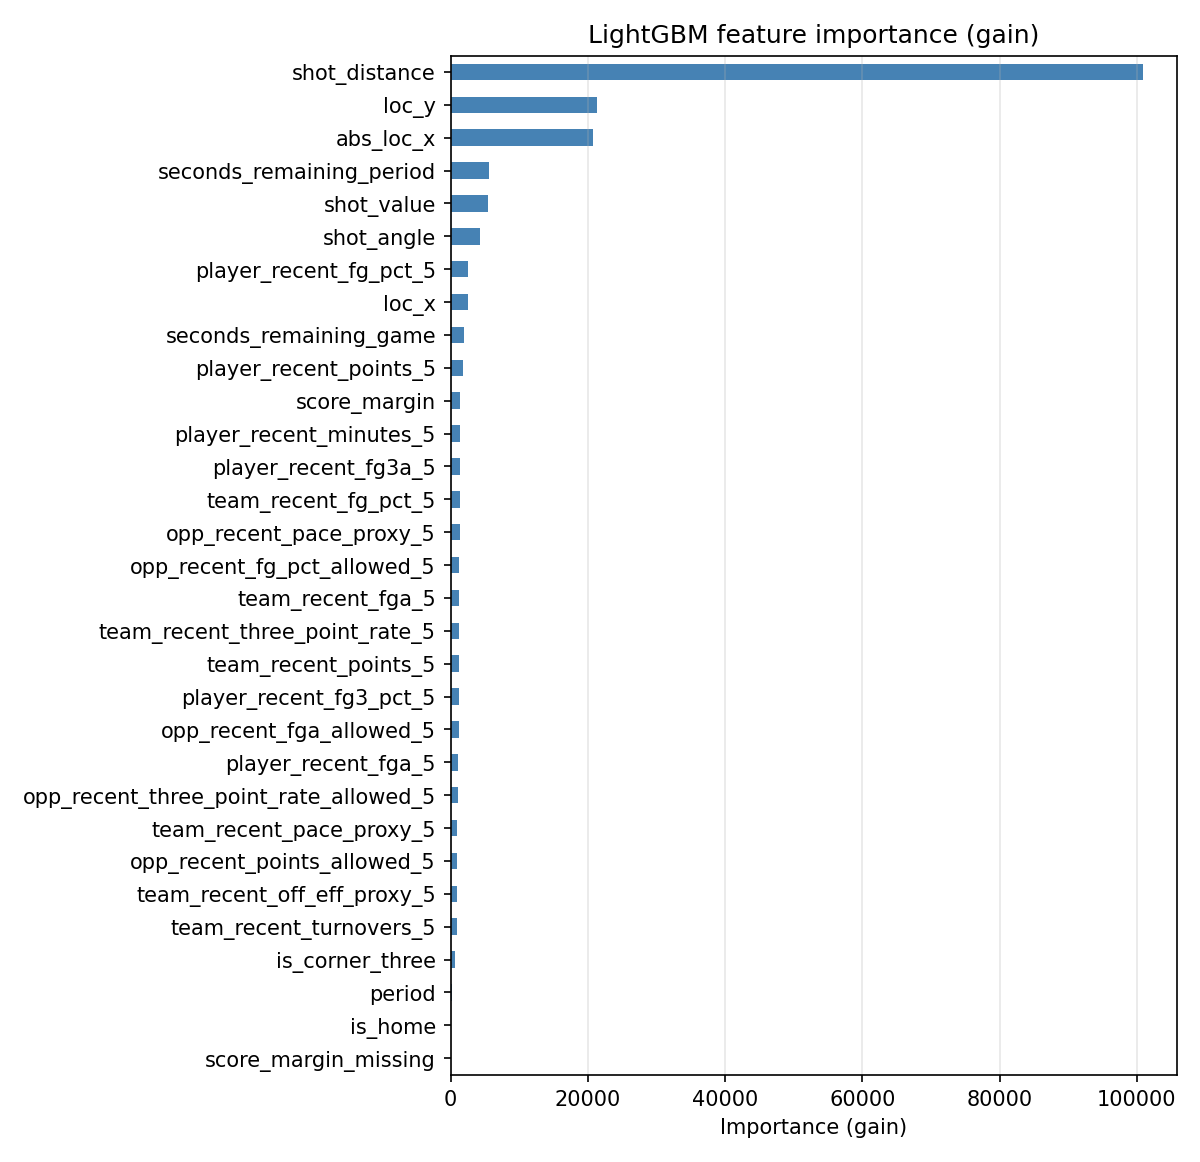
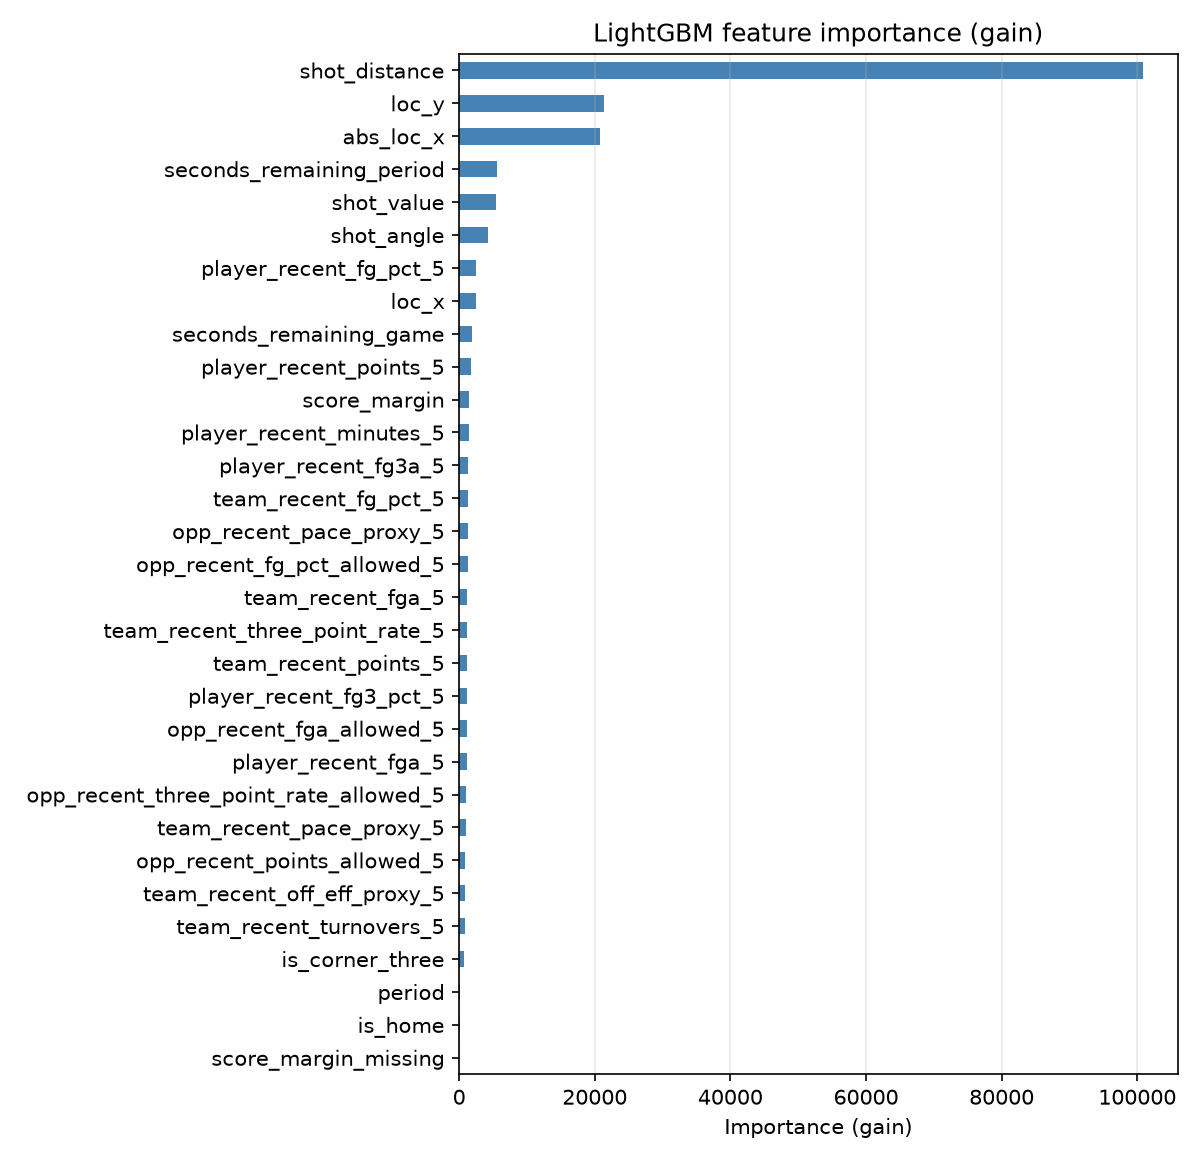
Export sagemaker training artifacts

diff --git a/pipelines/sagemaker_train.py b/pipelines/sagemaker_train.py
@@ -21,7 +21,7 @@ from courtvision.utils.storage import join_s3_uri, s3_uri  # noqa: E402
 
 INPUT_CHANNEL_NAME = "processed"
 DEFAULT_ECR_REPO = "courtvision-train"
-DEFAULT_ECR_TAG = "phase9-sagemaker-v1"
+DEFAULT_ECR_TAG = "phase9-sagemaker-v2"
 DEFAULT_ROLE_NAME = "CourtVisionSageMakerExecutionRole"
 DEFAULT_INSTANCE_TYPE = "ml.c5.xlarge"
 DEFAULT_MAX_RUNTIME_SECONDS = 1800

diff --git a/reports/sagemaker_preflight.md b/reports/sagemaker_preflight.md
@@ -14,13 +14,13 @@ Phase 9 cloud-assisted training has had one managed run that reached container e
 | --- | --- |
 | Default instance type | `ml.c5.xlarge` |
 | Training module (container command) | `courtvision.models.train_lgbm` |
-| Container args | `--processed-dir /opt/ml/input/data/processed/features --mode default --no-mlflow` |
+| Container args | `--processed-dir /opt/ml/input/data/processed/features --model-output-dir /opt/ml/model --mode default --no-mlflow` |
 | Default behavior | Dry run (print job JSON only) |
 
 The container command is:
 
 ```text
-python -m courtvision.models.train_lgbm --processed-dir /opt/ml/input/data/processed/features --mode default --no-mlflow
+python -m courtvision.models.train_lgbm --processed-dir /opt/ml/input/data/processed/features --model-output-dir /opt/ml/model --mode default --no-mlflow
 ```
 
 MLflow is disabled in the default cloud run until cloud MLflow tracking and artifact storage are fully configured.
